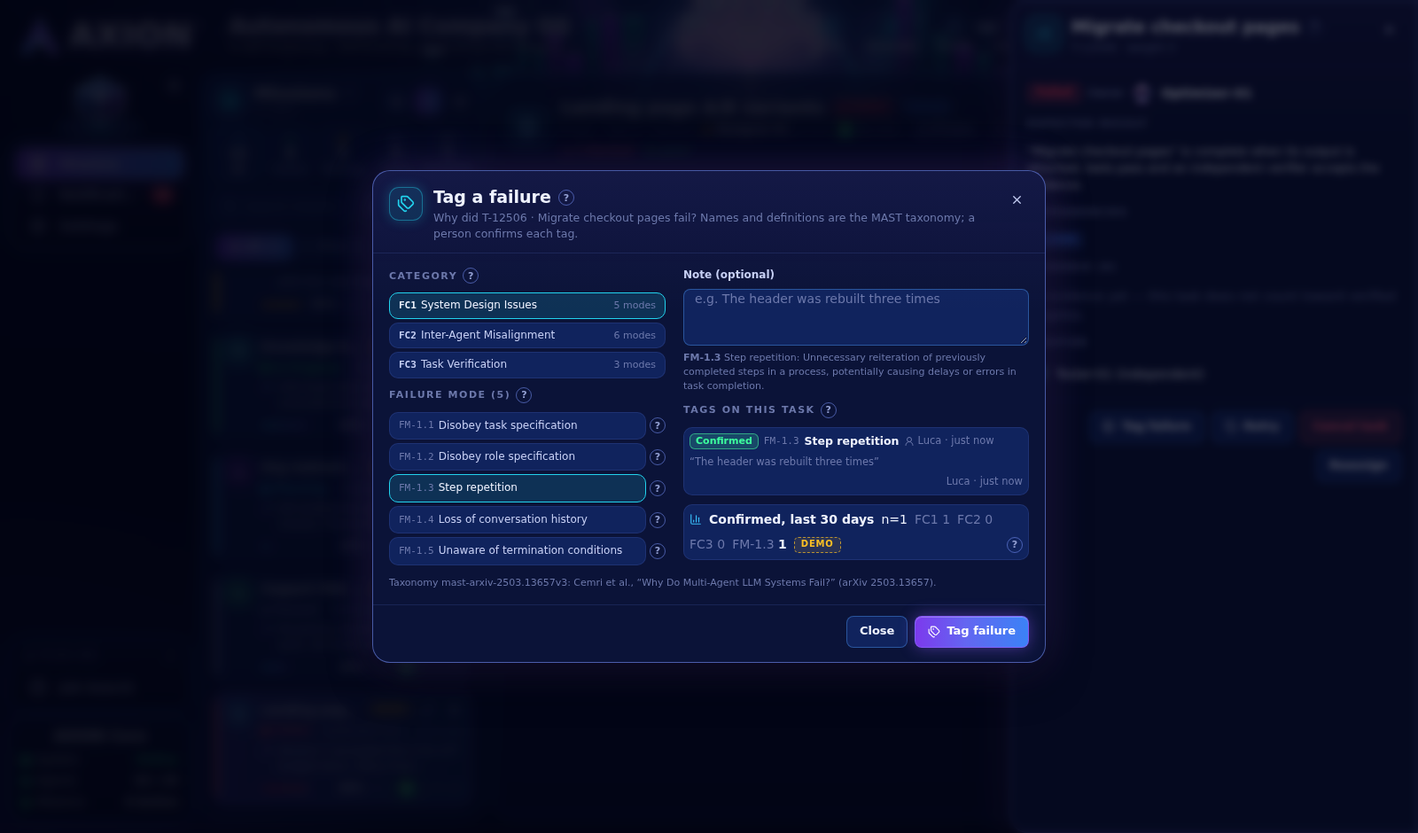
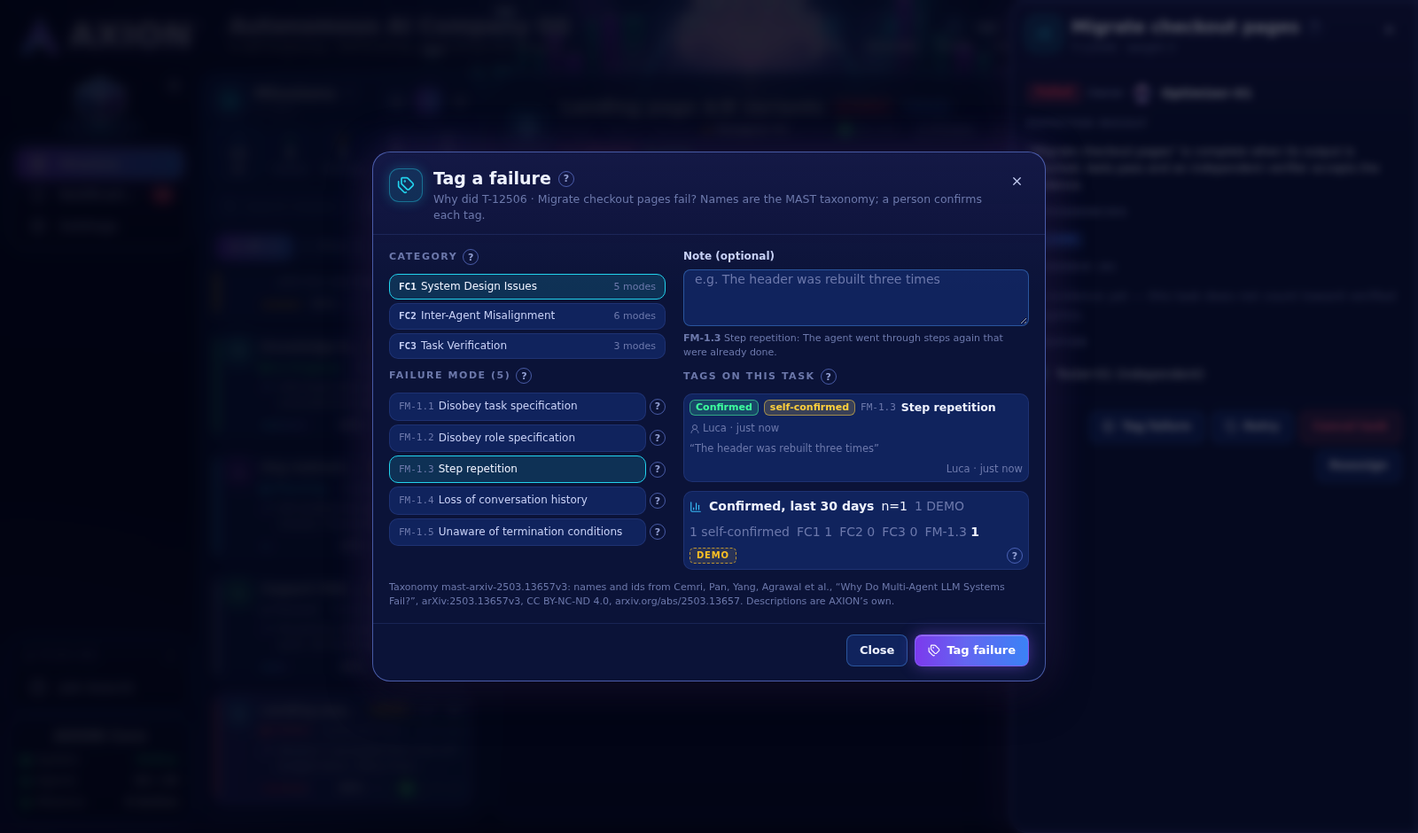
fix(c33 review): licence (own descriptions, attribution), radio-group arrow keys, DEMO split and self-confirmed counts

Changed region(s): [[0.25, 0.1543, 0.75, 0.833]]

diff --git a/web/src/dialogs/defs/failure-tags.tsx b/web/src/dialogs/defs/failure-tags.tsx
@@ -26,8 +26,22 @@ const SAMPLES = [
   { modeId: 'FM-3.2', status: 'proposed' as const, by: 'Tester-01 (sample agent)', note: '' },
 ];
 
+/** WAI-ARIA radio group: one tab stop (the selected item, else the first), arrow keys move the selection and focus. */
+function RadioList<T extends string>({ label, value, items, onSelect, children }: { label: string; value: T | ''; items: T[]; onSelect: (k: T) => void; children: (k: T, p: { tabIndex: number; selected: boolean; ref: (e: HTMLElement | null) => void; onKeyDown: (e: React.KeyboardEvent) => void }, i: number) => React.ReactNode }) {
+  const refs = useRef<Record<string, HTMLElement | null>>({});
+  const stop = items.includes(value as T) ? value : items[0];
+  const onKey = (i: number) => (e: React.KeyboardEvent) => {
+    const d = e.key === 'ArrowDown' || e.key === 'ArrowRight' ? 1 : e.key === 'ArrowUp' || e.key === 'ArrowLeft' ? -1 : e.key === 'Home' ? 'home' : e.key === 'End' ? 'end' : 0;
+    if (!d) return;
+    e.preventDefault(); e.stopPropagation();
+    const n = d === 'home' ? 0 : d === 'end' ? items.length - 1 : (i + d + items.length) % items.length;
+    onSelect(items[n]); refs.current[items[n]]?.focus();
+  };
+  return <div className="col" style={{ gap: 4 }} role="radiogroup" aria-label={label}>{items.map((k, i) => children(k, { tabIndex: k === stop ? 0 : -1, selected: k === value, ref: (e) => { refs.current[k] = e; }, onKeyDown: onKey(i) }, i))}</div>;
+}
+
 /* DL-78: Tag a failure (improvement cycle 33). MAST taxonomy (arXiv 2503.13657v3): pick a category, then a mode; the ? beside each
-   mode quotes the paper's definition. Every tag starts proposed; a person confirms or rejects it once; only confirmed tags are counted. */
+   mode gives AXION's one-sentence description and the source (the paper is CC BY-NC-ND: names and ids only are the paper's). Every tag starts proposed; a person confirms or rejects it once; only confirmed tags are counted. */
 function TagFailure({ close, props }: DialogComponentProps<{ missionId?: string; taskId?: string; subjectKind?: FailureSubjectKind; subjectId?: string; label?: string }>) {
   const api_ = isApi();
   const kind: FailureSubjectKind = props.subjectKind ?? 'task';
@@ -69,7 +83,7 @@ function TagFailure({ close, props }: DialogComponentProps<{ missionId?: string;
   const header = useMemo(() => (props.label ? `${subjectId} · ${props.label}` : `${KIND_LABEL[kind]} ${subjectId}`.trim()), [props.label, kind, subjectId]);
   return (
     <Modal title="Tag a failure" icon={Tags} help="failure.tag" dialogId="DL-78" size="lg" onClose={close}
-      sub={`Why did ${subjectId ? header : 'this task'} fail? Names and definitions are the MAST taxonomy; a person confirms each tag.`}
+      sub={`Why did ${subjectId ? header : 'this task'} fail? Names are the MAST taxonomy; a person confirms each tag.`}
       footer={<><button className="btn" onClick={close}>Close</button>
         <button className="btn primary" disabled={!!err || !!busy} title={err || undefined} onClick={submit} data-tag-submit>{busy === 'tag' ? <Loader2 size={14} className="spin" /> : <Tags size={14} />}Tag failure</button></>}>
       <div className="col" style={{ gap: 12 }}>
@@ -79,26 +93,24 @@ function TagFailure({ close, props }: DialogComponentProps<{ missionId?: string;
         <div className="oa-diff-cols">
           <div className="col" style={{ gap: 10 }} data-mode-picker>
             <div className="row" style={{ gap: 6 }}><div className="section-label" style={{ margin: 0 }}>Category</div><HelpTrigger k="failure.category" /></div>
-            <div className="col" style={{ gap: 4 }} role="radiogroup" aria-label="Failure category">
-              {FAILURE_TAXONOMY.map((x) => (
-                <button key={x.id} type="button" role="radio" aria-checked={cat === x.id} title={x.definition} className={cx('oa-mem', cat === x.id && 'on')} style={{ justifyContent: 'flex-start', padding: '5px 10px', borderRadius: 10 }}
-                  onClick={() => { setCat(x.id); setModeId((m) => (failureModeOf(m)?.category.id === x.id ? m : '')); touch(); }}>
+            <RadioList label="Failure category" value={cat} items={FAILURE_TAXONOMY.map((x) => x.id)} onSelect={(id) => { setCat(id); setModeId((m) => (failureModeOf(m)?.category.id === id ? m : '')); touch(); }}>
+              {(id, rp) => { const x = FAILURE_TAXONOMY.find((y) => y.id === id)!; return (
+                <button key={id} type="button" role="radio" aria-checked={rp.selected} tabIndex={rp.tabIndex} ref={rp.ref} onKeyDown={rp.onKeyDown} title={x.definition} className={cx('oa-mem', rp.selected && 'on')} style={{ justifyContent: 'flex-start', padding: '5px 10px', borderRadius: 10 }}
+                  onClick={() => { setCat(id); setModeId((m) => (failureModeOf(m)?.category.id === id ? m : '')); touch(); }}>
                   <b className="mono" style={{ fontSize: 11 }}>{x.id}</b><span>{x.name}</span><span className="dim tnum" style={{ marginLeft: 'auto', fontSize: 11 }}>{x.modes.length} modes</span>
-                </button>
-              ))}
-            </div>
+                </button>); }}
+            </RadioList>
             <div className="row" style={{ gap: 6 }}><div className="section-label" style={{ margin: 0 }}>Failure mode ({category.modes.length})</div><HelpTrigger k={`failure.cat.${cat}`} /></div>
-            <div className="col" style={{ gap: 4 }} role="radiogroup" aria-label={`Failure modes in ${category.name}`}>
-              {category.modes.map((m, i) => (
-                <motion.div key={m.id} className="row" style={{ gap: 4 }} initial={{ opacity: 0, x: -6 }} animate={{ opacity: 1, x: 0 }} transition={{ delay: i * .03 }}>
-                  <button type="button" role="radio" aria-checked={modeId === m.id} data-mode={m.id} className={cx('oa-mem', modeId === m.id && 'on')} style={{ flex: 1, justifyContent: 'flex-start', padding: '6px 10px', borderRadius: 10 }}
-                    onClick={() => { setModeId(m.id); touch(); }}>
-                    <span className="mono dim" style={{ fontSize: 11 }}>{m.id}</span><span>{m.name}</span>
+            <RadioList label={`Failure modes in ${category.name}`} value={modeId} items={category.modes.map((m) => m.id)} onSelect={(id) => { setModeId(id); touch(); }}>
+              {(id, rp, i) => { const m = category.modes.find((y) => y.id === id)!; return (
+                <motion.div key={id} className="row" style={{ gap: 4 }} initial={{ opacity: 0, x: -6 }} animate={{ opacity: 1, x: 0 }} transition={{ delay: i * .03 }}>
+                  <button type="button" role="radio" aria-checked={rp.selected} tabIndex={rp.tabIndex} ref={rp.ref} onKeyDown={rp.onKeyDown} data-mode={id} className={cx('oa-mem', rp.selected && 'on')} style={{ flex: 1, justifyContent: 'flex-start', padding: '6px 10px', borderRadius: 10 }}
+                    onClick={() => { setModeId(id); touch(); }}>
+                    <span className="mono dim" style={{ fontSize: 11 }}>{id}</span><span>{m.name}</span>
                   </button>
-                  <HelpTrigger k={`failure.mode.${m.id}`} />
-                </motion.div>
-              ))}
-            </div>
+                  <HelpTrigger k={`failure.mode.${id}`} />
+                </motion.div>); }}
+            </RadioList>
           </div>
           <div className="col" style={{ gap: 10 }}>
             <Field label="Note (optional)" htmlFor="ft-note" hint={chosen ? <><b>{chosen.mode.id}</b> {chosen.mode.name}: {chosen.mode.definition}</> : 'Say what you saw, in your own words. The definition of the chosen mode appears here.'}>
@@ -111,7 +123,7 @@ function TagFailure({ close, props }: DialogComponentProps<{ missionId?: string;
                 : tags.length === 0 ? <span className="dim" style={{ fontSize: 12 }}>No tags yet.</span>
                 : tags.map((t) => (
                   <motion.div key={t.id} className="oa-move" layout initial={{ opacity: 0, y: 4 }} animate={{ opacity: 1, y: 0 }} data-tag={t.id} data-status={t.status} data-mode-id={t.modeId}>
-                    <Chip hue={STATUS[t.status].hue} size="sm">{STATUS[t.status].label}</Chip>
+                    <Chip hue={STATUS[t.status].hue} size="sm">{STATUS[t.status].label}</Chip>{t.selfConfirmed && <Chip hue={45} size="sm" title="Confirmed by the person who made the tag">self-confirmed</Chip>}
                     <span className="mono dim" style={{ fontSize: 11 }}>{t.modeId}</span><b style={{ fontSize: 12.5 }}>{t.modeName}</b>
                     <span className="dim row" style={{ gap: 3, fontSize: 11.5 }}>{t.taggedByKind === 'agent' ? <Bot size={12} /> : <UserRound size={12} />}{t.taggedByName} · {since(t.createdAt)}</span>
                     {t.note && <span className="dim" style={{ fontSize: 11.5, flexBasis: '100%' }}>“{t.note}”</span>}
@@ -136,6 +148,8 @@ function TagFailure({ close, props }: DialogComponentProps<{ missionId?: string;
                 : c ? <>
                   <b>Confirmed, last 30 days</b>
                   <span className="tnum" data-n>n={c.n}</span>
+                  <span className="dim tnum" data-n-demo={c.demo} title="Of n, tags on DEMO sample missions">{c.demo} DEMO</span>
+                  <span className="dim tnum" data-n-self={c.selfConfirmed} title="Of n, confirmed by the person who made the tag">{c.selfConfirmed} self-confirmed</span>
                   {c.categories.map((x) => <span key={x.id} className="dim tnum" title={x.name}>{x.id} {x.count ?? '—'}</span>)}
                   {modeId && <span className="tnum"><span className="dim">{modeId}</span> <b data-mode-total>{modeCount ?? '—'}</b></span>}
                   {c.proposed > 0 && <span className="dim">· {c.proposed} proposed, not counted</span>}
@@ -145,7 +159,7 @@ function TagFailure({ close, props }: DialogComponentProps<{ missionId?: string;
             </div>
           </div>
         </div>
-        <span className="dim" style={{ fontSize: 11 }}>Taxonomy {FAILURE_TAXONOMY_VERSION}: Cemri et al., “Why Do Multi-Agent LLM Systems Fail?” (arXiv 2503.13657).</span>
+        <span className="dim" style={{ fontSize: 11 }}>Taxonomy {FAILURE_TAXONOMY_VERSION}: names and ids from Cemri, Pan, Yang, Agrawal et al., “Why Do Multi-Agent LLM Systems Fail?”, arXiv:2503.13657v3, CC BY-NC-ND 4.0, arxiv.org/abs/2503.13657. Descriptions are AXION’s own.</span>
       </div>
     </Modal>
   );

diff --git a/shared/contracts/src/failures.ts b/shared/contracts/src/failures.ts
@@ -1,56 +1,57 @@
 /**
- * Improvement cycle 33: the MAST failure taxonomy, copied from the paper and versioned.
- * Source: Cemri, Pan, Yang, Agrawal et al., "Why Do Multi-Agent LLM Systems Fail?", arXiv:2503.13657v3 (26 Oct 2025),
- * Section 4 (category names) and Appendix A.1-A.3 "MAST Failure Categories: Deep Dive" (mode names and definitions, verbatim,
- * including the paper's own wording and curly apostrophes). The paper is licensed CC BY-NC-ND 4.0: the text is quoted, not changed.
+ * Improvement cycle 33: the MAST failure taxonomy, versioned.
+ * Attribution: the three category names, the 14 failure-mode ids and their short names are taken unchanged from
+ * Cemri, Pan, Yang, Agrawal et al., "Why Do Multi-Agent LLM Systems Fail?", arXiv:2503.13657v3 (26 Oct 2025),
+ * https://arxiv.org/abs/2503.13657 , Section 4 and Appendix A.1-A.3. The paper is licensed CC BY-NC-ND 4.0.
+ * The one-sentence descriptions below are AXION's own plain-words summaries (not the paper's text); read the paper for its definitions.
  * The list is frozen data: a change is a new taxonomy version, never an edit of this one (tags keep the version they were made under).
  */
 export const FAILURE_TAXONOMY_VERSION = 'mast-arxiv-2503.13657v3' as const;
-export const FAILURE_TAXONOMY_SOURCE = 'Cemri et al., "Why Do Multi-Agent LLM Systems Fail?", arXiv:2503.13657v3, Appendix A (CC BY-NC-ND 4.0)' as const;
+export const FAILURE_TAXONOMY_SOURCE = 'Cemri, Pan, Yang, Agrawal et al., "Why Do Multi-Agent LLM Systems Fail?", arXiv:2503.13657v3 (CC BY-NC-ND 4.0), https://arxiv.org/abs/2503.13657' as const;
 
 export interface FailureModeDef { id: string; name: string; definition: string }
 export interface FailureCategoryDef { id: string; name: string; definition: string; appendix: string; modes: readonly FailureModeDef[] }
 
 export const FAILURE_TAXONOMY: readonly FailureCategoryDef[] = Object.freeze([
   Object.freeze({ id: "FC1", name: "System Design Issues", appendix: "A.1",
-    definition: "This category includes failures that arise from deficiencies in the design of the system architecture, poor conversation management, unclear task specifications or violation of constraints, and inadequate definition or adherence to the roles and responsibilities of the agents.",
+    definition: "Problems that start in how the system, its prompts and its roles were set up, rather than in what happened during a run.",
     modes: Object.freeze([
       Object.freeze({ id: "FM-1.1", name: "Disobey task specification",
-        definition: "Failure to adhere to the specified constraints or requirements of a given task, leading to suboptimal or incorrect outcomes." }),
+        definition: "The agent did not follow the requirements or limits that the task set." }),
       Object.freeze({ id: "FM-1.2", name: "Disobey role specification",
-        definition: "Failure to adhere to the defined responsibilities and constraints of an assigned role, potentially leading to an agent behaving like another." }),
+        definition: "The agent stepped outside the duties of its own role, for example doing another agent's job." }),
       Object.freeze({ id: "FM-1.3", name: "Step repetition",
-        definition: "Unnecessary reiteration of previously completed steps in a process, potentially causing delays or errors in task completion." }),
+        definition: "The agent went through steps again that were already done." }),
       Object.freeze({ id: "FM-1.4", name: "Loss of conversation history",
-        definition: "Unexpected context truncation, disregarding recent interaction history and reverting to an antecedent conversational state." }),
+        definition: "The agent lost track of what was said earlier and carried on as if it had not happened." }),
       Object.freeze({ id: "FM-1.5", name: "Unaware of termination conditions",
-        definition: "Lack of recognition or understanding of the criteria that should trigger the termination of the agents’ interaction, potentially leading to unnecessary continuation." }),
+        definition: "The agent did not recognise that the work was finished and kept going." }),
     ]) }),
   Object.freeze({ id: "FC2", name: "Inter-Agent Misalignment", appendix: "A.2",
-    definition: "This category includes failures arising from ineffective communication, poor collaboration, conflicting behaviors among agents, and gradual derailment from the initial task.",
+    definition: "Problems in how agents talk and work together while a task is running, so that needed information or direction is lost.",
     modes: Object.freeze([
       Object.freeze({ id: "FM-2.1", name: "Conversation reset",
-        definition: "Unexpected or unwarranted restarting of a dialogue, potentially losing context and progress made in the interaction." }),
+        definition: "The conversation started over for no good reason, and earlier progress was lost." }),
       Object.freeze({ id: "FM-2.2", name: "Fail to ask for clarification",
-        definition: "Inability to request additional information when faced with unclear or incomplete data, potentially resulting in incorrect actions." }),
+        definition: "The agent guessed instead of asking, although the input was unclear or incomplete." }),
       Object.freeze({ id: "FM-2.3", name: "Task derailment",
-        definition: "Deviation from the intended objective or focus of a given task, potentially resulting in irrelevant or unproductive actions." }),
+        definition: "The work drifted away from the goal of the task into something unrelated." }),
       Object.freeze({ id: "FM-2.4", name: "Information withholding",
-        definition: "Failure to share or communicate important data or insights that an agent possess and could impact decision-making of other agents if shared." }),
+        definition: "An agent kept back information that another agent needed to decide well." }),
       Object.freeze({ id: "FM-2.5", name: "Ignored other agent’s input",
-        definition: "Disregarding or failing to adequately consider input or recommendations provided by other agents in the system, potentially leading to suboptimal decisions or missed opportunities for collaboration." }),
+        definition: "An agent overlooked or brushed aside what another agent had contributed." }),
       Object.freeze({ id: "FM-2.6", name: "Reasoning-action mismatch",
-        definition: "Discrepancy between the logical reasoning process and the actual actions taken by the agent, potentially resulting in unexpected or undesired behaviors." }),
+        definition: "What the agent said it would do and what it actually did did not match." }),
     ]) }),
   Object.freeze({ id: "FC3", name: "Task Verification", appendix: "A.3",
-    definition: "This category includes failures resulting from premature execution termination, as well as insufficient mechanisms to guarantee the accuracy, completeness, and reliability of interactions, decisions, and outcomes.",
+    definition: "Problems in checking the result: work that stops too early, is not checked, or is checked badly.",
     modes: Object.freeze([
       Object.freeze({ id: "FM-3.1", name: "Premature termination",
-        definition: "Ending a dialogue, interaction or task before all necessary information has been exchanged or objectives have been met, potentially resulting in incomplete or incorrect outcomes." }),
+        definition: "The task was ended before the needed information was exchanged or the goal was reached." }),
       Object.freeze({ id: "FM-3.2", name: "No or incomplete verification",
-        definition: "(partial) omission of proper checking or confirmation of task outcomes or system outputs, potentially allowing errors or inconsistencies to propagate undetected." }),
+        definition: "The result was not checked, or only partly checked, before it was accepted." }),
       Object.freeze({ id: "FM-3.3", name: "Incorrect verification",
-        definition: "Failure to adequately validate or cross-check crucial information or decisions during the iterations, potentially leading to errors or vulnerabilities in the system." }),
+        definition: "A check was done, but it was too weak or wrong to catch the problem." }),
     ]) }),
 ]);
 
@@ -67,7 +68,7 @@ export type FailureTagStatus = 'proposed' | 'confirmed' | 'rejected';
 export interface FailureTagDto {
   id: string; subjectKind: FailureSubjectKind; subjectId: string; missionId: string; taxonomyVersion: string;
   modeId: string; modeName: string; categoryId: string; categoryName: string; note: string | null;
-  taggedBy: string; taggedByName: string; taggedByKind: 'user' | 'agent'; status: FailureTagStatus; createdAt: string;
+  taggedBy: string; taggedByName: string; taggedByKind: 'user' | 'agent'; status: FailureTagStatus; selfConfirmed: boolean; createdAt: string;
   decidedBy: string | null; decidedByName: string | null; decidedAt: string | null;
 }
 export interface FailureSubjectInfo { kind: FailureSubjectKind; id: string; missionId: string; demo: boolean; failed: boolean; retried: boolean }
@@ -76,5 +77,5 @@ export interface FailureModeCount { id: string; name: string; count: number | nu
 export interface FailureCategoryCount { id: string; name: string; count: number | null; modes: FailureModeCount[] }
 export interface FailureModesDto {
   window: '7d' | '30d' | '90d'; from: string; to: string; includeDemo: boolean; taxonomyVersion: string; source: string;
-  n: number; proposed: number; categories: FailureCategoryCount[];
+  n: number; /** of n: tags on DEMO missions (0 unless includeDemo) */ demo: number; /** of n: confirmed by the person who tagged them */ selfConfirmed: number; proposed: number; categories: FailureCategoryCount[];
 }

diff --git a/server/test/failures.test.ts b/server/test/failures.test.ts
@@ -1,6 +1,6 @@
 import { describe, it, expect, beforeAll, afterAll } from 'vitest';
 import { makeTestApp, withAdmin, type TestApp, type Browser } from './helpers.ts';
-import { FAILURE_TAXONOMY, FAILURE_TAXONOMY_VERSION, FAILURE_MODE_IDS } from '../src/failures/taxonomy.ts';
+import { FAILURE_TAXONOMY, FAILURE_TAXONOMY_VERSION, FAILURE_TAXONOMY_SOURCE, FAILURE_MODE_IDS } from '../src/failures/taxonomy.ts';
 import { createTag } from '../src/failures/service.ts';
 import { clearDemo } from '../src/seed/demo.ts';
 import { tx } from '../src/db.ts';
@@ -64,7 +64,12 @@ describe('the taxonomy is the paper\'s (arXiv 2503.13657v3, Appendix A)', () => 
       'FM-3.1 Premature termination', 'FM-3.2 No or incomplete verification', 'FM-3.3 Incorrect verification',
     ]);
     expect(FAILURE_MODE_IDS).toHaveLength(14);
-    expect(FAILURE_TAXONOMY.flatMap((c) => c.modes).every((m) => m.definition.length > 40 && m.definition.endsWith('.'))).toBe(true);
+    // licence (CC BY-NC-ND): names and ids are the paper's, the descriptions are AXION's own one-sentence summaries, not its text
+    const defs = [...FAILURE_TAXONOMY.map((c) => c.definition), ...FAILURE_TAXONOMY.flatMap((c) => c.modes.map((m) => m.definition))];
+    expect(defs).toHaveLength(17);
+    expect(defs.every((d) => d.length > 30 && d.length < 140 && d.endsWith('.') && d.split('. ').length === 1)).toBe(true);
+    expect(defs.filter((d) => /potentially|This category includes|leading to suboptimal|Failure to adhere/i.test(d))).toEqual([]);
+    expect(FAILURE_TAXONOMY_SOURCE).toMatch(/arXiv:2503\.13657v3.*CC BY-NC-ND 4\.0.*https:\/\/arxiv\.org\/abs\/2503\.13657/);
   });
   it('is frozen (a change is a new version, never an edit)', () => {
     expect(Object.isFrozen(FAILURE_TAXONOMY)).toBe(true);
@@ -164,6 +169,22 @@ describe('decisions', () => {
     expect((await A.req('POST', '/failure-tags/FT-NOPE/decision', { decision: 'confirm' })).status).toBe(404);
   });
 
+  it('self-confirmation is allowed but recorded: decider = tagger sets self_confirmed; another person, a rejection and an agent tag do not', async () => {
+    const own = (await tag(M, 'task', 'T-D1', 'FM-1.2')).body.tag.id as string;
+    const r = await M.req('POST', `/failure-tags/${own}/decision`, { decision: 'confirm' });
+    expect(r.body.tag).toMatchObject({ status: 'confirmed', selfConfirmed: true, decidedBy: minaId });
+    const other = (await tag(M, 'task', 'T-D1', 'FM-1.5')).body.tag.id as string;
+    expect((await A.req('POST', `/failure-tags/${other}/decision`, { decision: 'confirm' })).body.tag).toMatchObject({ status: 'confirmed', selfConfirmed: false });
+    const rej = (await tag(M, 'task', 'T-D1', 'FM-2.1')).body.tag.id as string;
+    expect((await M.req('POST', `/failure-tags/${rej}/decision`, { decision: 'reject' })).body.tag).toMatchObject({ status: 'rejected', selfConfirmed: false });
+    expect((await rows('select self_confirmed from failure_tags where id=$1', [own]))[0].self_confirmed).toBe(true);
+    // the database refuses a lie about it
+    const p2 = (await tag(M, 'task', 'T-D1', 'FM-2.2')).body.tag.id as string;
+    await expect(q(`update failure_tags set status='confirmed', decided_by=$2, decided_at=now(), self_confirmed=true where id=$1`, [p2, adminId])).rejects.toThrow(/self_confirmed/);
+    await expect(q(`update failure_tags set status='confirmed', decided_by=$2, decided_at=now(), self_confirmed=false where id=$1`, [p2, minaId])).rejects.toThrow(/self_confirmed/);
+    await expect(q(`insert into failure_tags(id, tenant_id, mission_id, subject_kind, subject_id, taxonomy_version, mode_id, tagged_by, tagged_by_kind, self_confirmed) values ('FT-X','t-1','M-C1','task','T-F1','v','FM-1.1','u','user',true)`)).rejects.toThrow();
+  });
+
   it('a rejected tag is final but the same mode can be proposed again', async () => {
     const id = (await tag(A, 'task', 'T-S1', 'FM-2.2')).body.tag.id as string;
     expect((await A.req('POST', `/failure-tags/${id}/decision`, { decision: 'reject' })).body.tag.status).toBe('rejected');
@@ -188,7 +209,7 @@ describe('decisions', () => {
     await expect(q(`update failure_tags set status='confirmed' where id=$1`, [id])).rejects.toThrow(); // no decider recorded
     await expect(q(`delete from failure_tags where id=$1`, [id])).rejects.toThrow(/append-only/);
     await expect(q(`truncate failure_tags`)).rejects.toThrow(/append-only/);
-    await q(`update failure_tags set status='confirmed', decided_by=$2, decided_at=now() where id=$1`, [id, adminId]);
+    await q(`update failure_tags set status='confirmed', decided_by=$2, decided_at=now(), self_confirmed=true where id=$1`, [id, adminId]);
     await expect(q(`update failure_tags set status='rejected', decided_by='x', decided_at=now() where id=$1`, [id])).rejects.toThrow(/never changes/);
   });
 });
@@ -239,6 +260,8 @@ describe('counts on a fixture with known tags', () => {
     await mk(Y, 'T-3', 'FM-3.1');                     // proposed: not counted, reported apart
     const r = (await X.req('GET', '/company/failure-modes?window=30d')).body;
     expect(r.n).toBe(4); expect(r.proposed).toBe(1);
+    // who confirmed: Yan confirmed his own (T-1 FM-1.3), the administrator confirmed three tags made by herself: 4 self-confirmed
+    expect(r.selfConfirmed).toBe(4); expect(r.demo).toBe(0);
     expect(flat(r)).toMatchObject({ 'FM-1.3': 2, 'FM-3.2': 1, 'FM-2.6': 1, 'FM-1.1': 0, 'FM-2.5': 0, 'FM-3.1': 0 });
     expect(r.categories.map((c: any) => [c.id, c.count])).toEqual([['FC1', 2], ['FC2', 1], ['FC3', 1]]);
     expect(r.categories.reduce((s: number, c: any) => s + c.count, 0)).toBe(r.n);
@@ -261,7 +284,7 @@ describe('counts on a fixture with known tags', () => {
     const demo = await mk(X, 'T-4', 'FM-2.1', 'confirm');
     expect(demo).toMatch(/^FT-/);
     const a0 = (await X.req('GET', '/company/failure-modes')).body, a1 = (await X.req('GET', '/company/failure-modes?includeDemo=1')).body;
-    expect(a1.n).toBe(a0.n + 1); expect(a1.includeDemo).toBe(true); expect(flat(a1)['FM-2.1']).toBe(1); expect(flat(a0)['FM-2.1']).toBe(0);
+    expect(a0.demo).toBe(0); expect(a1.demo).toBe(1); expect(a1.n).toBe(a0.n + 1); expect(a1.includeDemo).toBe(true); expect(flat(a1)['FM-2.1']).toBe(1); expect(flat(a0)['FM-2.1']).toBe(0);
     // Yan owns M-P (private) and sees the shared M-Q and M-DM; the administrator's tags on M-P are visible to Yan too (his own mission)
     const y = (await Y.req('GET', '/company/failure-modes?includeDemo=1')).body;
     expect(y.n).toBe(a1.n);

diff --git a/server/src/failures/service.ts b/server/src/failures/service.ts
@@ -52,7 +52,7 @@ export function tagDto(r: any): FailureTagDto {
   return {
     id: r.id, subjectKind: r.subject_kind, subjectId: r.subject_id, missionId: r.mission_id, taxonomyVersion: r.taxonomy_version, modeId: r.mode_id,
     modeName: m?.mode.name ?? r.mode_id, categoryId: m?.category.id ?? '', categoryName: m?.category.name ?? '', note: r.note,
-    taggedBy: r.tagged_by, taggedByName: r.tagged_name ?? r.agent_name ?? r.tagged_by, taggedByKind: r.tagged_by_kind, status: r.status, createdAt: iso(r.created_at)!,
+    taggedBy: r.tagged_by, taggedByName: r.tagged_name ?? r.agent_name ?? r.tagged_by, taggedByKind: r.tagged_by_kind, status: r.status, selfConfirmed: !!r.self_confirmed, createdAt: iso(r.created_at)!,
     decidedBy: r.decided_by, decidedByName: r.decided_by ? (r.decided_name ?? r.decided_by) : null, decidedAt: iso(r.decided_at),
   };
 }
@@ -92,25 +92,26 @@ export async function decideTag(c: Tx, ctx: Viewer & { correlationId?: string },
   if (!f) return refuse(notFound('No such failure tag, or its mission is not shared with you.'));
   if (f.status !== 'proposed') return refuse(new ApiError('FAILURE_TAG_DECIDED', 409, `This tag was already ${f.status}. A decision is final; tag again to record another view.`));
   const status = decision === 'confirm' ? 'confirmed' : 'rejected';
-  await c.query(`update failure_tags set status=$2, decided_by=$3, decided_at=now() where id=$1`, [id, status, ctx.user.id]);
-  await audit(c, { tenantId: ctx.tenantId, actor: ctx.user.id, action: A, subject: id, result: 'ok', correlationId: ctx.correlationId ?? '', detail: { decision: status, modeId: f.mode_id, subjectKind: f.subject_kind, subjectId: f.subject_id } });
+  const self = status === 'confirmed' && f.tagged_by_kind === 'user' && f.tagged_by === ctx.user.id;
+  await c.query(`update failure_tags set status=$2, decided_by=$3, decided_at=now(), self_confirmed=$4 where id=$1`, [id, status, ctx.user.id, self]);
+  await audit(c, { tenantId: ctx.tenantId, actor: ctx.user.id, action: A, subject: id, result: 'ok', correlationId: ctx.correlationId ?? '', detail: { decision: status, selfConfirmed: self, modeId: f.mode_id, subjectKind: f.subject_kind, subjectId: f.subject_id } });
   await emit(c, { tenantId: ctx.tenantId, actor: ctx.user.id, correlationId: ctx.correlationId, type: 'failure.decided', subject: id, subjectKind: 'failure_tag', missionId: f.mission_id,
-    payload: { tagId: id, subjectKind: f.subject_kind, subjectId: f.subject_id, modeId: f.mode_id, status } });
+    payload: { tagId: id, subjectKind: f.subject_kind, subjectId: f.subject_id, modeId: f.mode_id, status, selfConfirmed: self } });
   return { tag: (await tagById(c, ctx.tenantId, id))! };
 }
 
 /** Confirmed tags per mode and category over a window, visible missions only (DEMO with includeDemo). The window is placed by the tag's creation time. n = confirmed tags in the window; below 1 every count is null (never 0). */
 export async function failureModeCounts(c: Q, ctx: Viewer, w: { window: '7d' | '30d' | '90d'; from: Date; to: Date }, includeDemo: boolean): Promise<FailureModesDto> {
-  const rows = (await c.query(`select f.mode_id, f.status, count(*)::int as n from failure_tags f join missions m on m.id=f.mission_id
+  const rows = (await c.query(`select f.mode_id, f.status, m.demo, f.self_confirmed, count(*)::int as n from failure_tags f join missions m on m.id=f.mission_id
       where f.tenant_id=$1 and m.tenant_id=$1 and m.deleted_at is null and ${VISIBLE_SQL('$2', '$3')} and ($4::boolean or not m.demo)
-        and f.taxonomy_version=$5 and f.status in ('confirmed','proposed') and f.created_at > $6 and f.created_at <= $7 group by 1, 2`,
+        and f.taxonomy_version=$5 and f.status in ('confirmed','proposed') and f.created_at > $6 and f.created_at <= $7 group by 1, 2, 3, 4`,
     [ctx.tenantId, ctx.user.role === 'admin', ctx.user.id, includeDemo, FAILURE_TAXONOMY_VERSION, w.from, w.to])).rows;
   const by = new Map<string, number>();
-  let n = 0, proposed = 0;
-  for (const r of rows) { if (r.status === 'confirmed') { by.set(r.mode_id, r.n); n += r.n; } else proposed += r.n; }
+  let n = 0, proposed = 0, demo = 0, selfConfirmed = 0;
+  for (const r of rows) { if (r.status === 'confirmed') { by.set(r.mode_id, (by.get(r.mode_id) ?? 0) + r.n); n += r.n; if (r.demo) demo += r.n; if (r.self_confirmed) selfConfirmed += r.n; } else proposed += r.n; }
   const some = n > 0;
   return {
-    window: w.window, from: w.from.toISOString(), to: w.to.toISOString(), includeDemo, taxonomyVersion: FAILURE_TAXONOMY_VERSION, source: FAILURE_TAXONOMY_SOURCE, n, proposed,
+    window: w.window, from: w.from.toISOString(), to: w.to.toISOString(), includeDemo, taxonomyVersion: FAILURE_TAXONOMY_VERSION, source: FAILURE_TAXONOMY_SOURCE, n, demo, selfConfirmed, proposed,
     categories: FAILURE_TAXONOMY.map((cat) => {
       const modes = cat.modes.map((m) => ({ id: m.id, name: m.name, count: some ? (by.get(m.id) ?? 0) : null }));
       return { id: cat.id, name: cat.name, count: some ? modes.reduce((s, m) => s + (m.count ?? 0), 0) : null, modes };

diff --git a/web/src/help/pages/c33-failure-tags.ts b/web/src/help/pages/c33-failure-tags.ts
@@ -2,19 +2,19 @@ import { FAILURE_TAXONOMY, FAILURE_TAXONOMY_VERSION, FAILURE_TAXONOMY_SOURCE } f
 import type { HelpEntry } from '../registry';
 
 const h = (title: string, what: string, why?: string, how?: string, example?: string, permission?: string): HelpEntry => ({ title, what, why, how, example, permission });
-const SRC = `Taxonomy ${FAILURE_TAXONOMY_VERSION}: ${FAILURE_TAXONOMY_SOURCE}. The names and definitions are quoted from the paper, unchanged.`;
+const SRC = `Taxonomy ${FAILURE_TAXONOMY_VERSION}. Category names, mode ids and mode names are from ${FAILURE_TAXONOMY_SOURCE}. The one-sentence descriptions are AXION's own plain-words summaries; the paper has the full definitions.`;
 
 /** Improvement cycle 33: failure-mode tags (MAST). One entry per category and per mode, generated from the same frozen list the server uses. */
 const entries: Record<string, HelpEntry> = {
   'failure.tag': h('Failure tags', 'A tag says why a task, an attempt, a message or a mission failed, using one of 14 failure modes from the MAST taxonomy (three categories). Today a failed task says nothing about why; a shared vocabulary lets failures be counted.',
     'Without common words the company cannot learn from its failures. The labels are judgments, so they are checked: every tag starts as proposed.',
-    'Pick a category, then a mode, add a note if you like, and tag. A person then confirms or rejects the tag, once. Only confirmed tags are counted, with their sample size n and the window.',
+    'Pick a category, then a mode, add a note if you like, and tag. A person then confirms or rejects the tag, once. Only confirmed tags are counted, with their sample size n, how many of n are DEMO, how many were confirmed by the person who tagged them, and the window.',
     'Task T-12501 failed: tag it "Step repetition" (FM-1.3) and confirm. The count for FM-1.3 becomes 1, n=1.',
     'Everyone who can see the mission can tag and decide. Agents will be able to propose tags later; those stay proposed until a person confirms them.'),
   'failure.category': h('Failure category', 'MAST groups its 14 failure modes into three categories: System Design Issues, Inter-Agent Misalignment and Task Verification. Choose the category first; it narrows the list of modes.', undefined, SRC),
-  'failure.mode': h('Failure mode', 'One of the 14 named ways a multi-agent system fails. Select a mode to tag it; hover or open the ? beside a mode for the paper\'s definition.', 'A mode is a label for a failure that was seen, not a verdict on who is to blame.', SRC),
+  'failure.mode': h('Failure mode', 'One of the 14 named ways a multi-agent system fails. Select a mode to tag it; open the ? beside a mode for a one-sentence description and the source.', 'A mode is a label for a failure that was seen, not a verdict on who is to blame.', SRC),
   'failure.status': h('Proposed, confirmed, rejected', 'Proposed: tagged but not yet checked by a person. Confirmed: a person agreed; it is counted. Rejected: a person disagreed; it is kept in the history and not counted.', 'The research behind MAST notes that these labels are subjective. A decision is made once and never changes; tag again to record another view.', undefined, undefined, 'Any person who can see the mission can decide.'),
-  'failure.counts': h('Failure counts', 'Confirmed tags per failure mode and category in the last 7, 30 or 90 days, over the missions you can see. n is the number of confirmed tags. When n is 0 the counts show "—", not 0: nothing has been counted yet.', 'Counts need a sample. A number with no tags behind it would be invented.', 'A tag is placed in the window by the time it was tagged. Proposed tags are shown beside n, not in it. DEMO missions count only for DEMO subjects and are labelled.'),
+  'failure.counts': h('Failure counts', 'Confirmed tags per failure mode and category in the last 7, 30 or 90 days, over the missions you can see. n is the number of confirmed tags. When n is 0 the counts show "—", not 0: nothing has been counted yet.', 'Counts need a sample. A number with no tags behind it would be invented.', 'A tag is placed in the window by the time it was tagged. Proposed tags are shown beside n, not in it. DEMO missions count only for DEMO subjects and are labelled, with the number of DEMO tags inside n. A tag confirmed by the same person who made it is counted and shown as self-confirmed.'),
 };
 for (const c of FAILURE_TAXONOMY) {
   entries[`failure.cat.${c.id}`] = h(`${c.id}: ${c.name}`, c.definition, undefined, `${c.modes.length} failure modes: ${c.modes.map((m) => `${m.id} ${m.name}`).join('; ')}.`, undefined, SRC);

diff --git a/web/docs/improve/cycles/c33-report.md b/web/docs/improve/cycles/c33-report.md
@@ -13,29 +13,13 @@ Every tag, human or agent, starts `proposed`. A person confirms or rejects it on
 The window places a tag by its creation time (not decision time).
 
 ## Taxonomy source (fetched, not from memory)
-Source: Cemri, Pan, Yang, Agrawal et al., "Why Do Multi-Agent LLM Systems Fail?", **arXiv:2503.13657v3** (26 Oct 2025), fetched from https://arxiv.org/html/2503.13657. Category names: Section 4 ("FC1. System Design Issues", "FC2. Inter-Agent Misalignment", "FC3. Task Verification"). Mode names and definitions: **Appendix A.1-A.3 "MAST Failure Categories: Deep Dive"**, copied verbatim from the HTML text (the paper's own wording kept, e.g. the curly apostrophe in FM-2.5, "(partial) omission" in FM-3.2, "an agent possess" in FM-2.4). The page says 14 modes; the counts 5 / 6 / 3 match "We identify five/six/three failure modes under this category".
+Source: Cemri, Pan, Yang, Agrawal et al., "Why Do Multi-Agent LLM Systems Fail?", **arXiv:2503.13657v3** (26 Oct 2025), https://arxiv.org/abs/2503.13657 (fetched from the HTML version). Licence CC BY-NC-ND 4.0. Category names: Section 4. Mode ids and names: Appendix A.1-A.3 "MAST Failure Categories: Deep Dive" (copied unchanged, including the curly apostrophe in FM-2.5). The Appendix says "five / six / three failure modes" per category (14 in all). Since the fix round (below) only the names and ids are the paper's; the descriptions are AXION's own.
 
-| ID | Name (Appendix A) | Quoted definition start |
-|---|---|---|
-| FC1 | System Design Issues (A.1) | "This category includes failures that arise from deficiencies in the design of the system architecture, ..." |
-| FM-1.1 | Disobey task specification | "Failure to adhere to the specified constraints or requirements of a given task, ..." |
-| FM-1.2 | Disobey role specification | "Failure to adhere to the defined responsibilities and constraints of an assigned role, ..." |
-| FM-1.3 | Step repetition | "Unnecessary reiteration of previously completed steps in a process, ..." |
-| FM-1.4 | Loss of conversation history | "Unexpected context truncation, disregarding recent interaction history ..." |
-| FM-1.5 | Unaware of termination conditions | "Lack of recognition or understanding of the criteria that should trigger the termination ..." |
-| FC2 | Inter-Agent Misalignment (A.2) | "This category includes failures arising from ineffective communication, poor collaboration, ..." |
-| FM-2.1 | Conversation reset | "Unexpected or unwarranted restarting of a dialogue, ..." |
-| FM-2.2 | Fail to ask for clarification | "Inability to request additional information when faced with unclear or incomplete data, ..." |
-| FM-2.3 | Task derailment | "Deviation from the intended objective or focus of a given task, ..." |
-| FM-2.4 | Information withholding | "Failure to share or communicate important data or insights that an agent possess ..." |
-| FM-2.5 | Ignored other agent’s input | "Disregarding or failing to adequately consider input or recommendations provided by other agents ..." |
-| FM-2.6 | Reasoning-action mismatch | "Discrepancy between the logical reasoning process and the actual actions taken by the agent, ..." |
-| FC3 | Task Verification (A.3) | "This category includes failures resulting from premature execution termination, ..." |
-| FM-3.1 | Premature termination | "Ending a dialogue, interaction or task before all necessary information has been exchanged ..." |
-| FM-3.2 | No or incomplete verification | "(partial) omission of proper checking or confirmation of task outcomes or system outputs, ..." |
-| FM-3.3 | Incorrect verification | "Failure to adequately validate or cross-check crucial information or decisions during the iterations, ..." |
-
-The full definitions are in the code (`shared/contracts/src/failures.ts`) and pinned by `server/test/failures.test.ts` (names, ids, 5/6/3, frozen). Definitions are quoted in the `?` help and the attribution line; the paper is CC BY-NC-ND 4.0 (see concerns).
+| Category | Modes (id and name, as in Appendix A) |
+|---|---|
+| FC1 System Design Issues | FM-1.1 Disobey task specification; FM-1.2 Disobey role specification; FM-1.3 Step repetition; FM-1.4 Loss of conversation history; FM-1.5 Unaware of termination conditions |
+| FC2 Inter-Agent Misalignment | FM-2.1 Conversation reset; FM-2.2 Fail to ask for clarification; FM-2.3 Task derailment; FM-2.4 Information withholding; FM-2.5 Ignored other agent’s input; FM-2.6 Reasoning-action mismatch |
+| FC3 Task Verification | FM-3.1 Premature termination; FM-3.2 No or incomplete verification; FM-3.3 Incorrect verification |
 
 ## RED / GREEN
 - Baseline on the untouched branch: server vitest 37 files, **583 passed**.
@@ -76,3 +60,11 @@ server: `migrations/0028_failure_tags.{up,down}.sql`, `src/failures/{taxonomy,se
 5. **Self-confirmation** is allowed (see lifecycle). If the owner wants a different person to confirm, it is one condition in `decideTag`.
 6. **Commit trailer.** The task and LANES.md say "Claude Opus 5.5"; the session's system reminder said "Claude Sonnet 5.5". I followed LANES.md.
 7. The e2e a11y api probe lines ("Could not load the tasks") are the check's own failure probes, not violations.
+
+## Fix round (controller review c33-review.md: CLEAR, four minors, plus the licence ruling)
+1. **Licence.** `shared/contracts/src/failures.ts` keeps the 3 category names, 14 ids and short names exactly, with attribution (authors, title, arXiv id and version, CC BY-NC-ND 4.0, link) in the file header and in `FAILURE_TAXONOMY_SOURCE`. All 17 verbatim definition sentences are replaced by AXION's own one-sentence descriptions (no copied phrasing). The help entries and the dialog footer carry the attribution and link and say the descriptions are AXION's. The taxonomy test now pins names/ids/5-6-3/frozen, that each description is one short sentence, that none contains paper phrases, and that the source string has arXiv id, version, licence and link. The earlier verbatim table is removed from this report; the "Quoted definition" column and the concern 1 text above are superseded.
+2. **Radio groups.** New `RadioList` in the dialog: roving tabindex (one tab stop per group: the selected item, else the first), ArrowUp/Down/Left/Right (wrapping), Home and End move selection and focus. `api-c33` checks: one tab stop per group, ArrowDown moves mode selection and focus, wrap-around, Home, category ArrowDown/ArrowUp (modes list follows; a mode of another category is dropped).
+3. **DEMO split.** `GET /company/failure-modes` returns `demo` (how many of n are on DEMO missions; 0 unless includeDemo=1); the dialog shows "1 DEMO" next to n.
+4. **Self-confirmation.** Still allowed. Migration 0028 (unmerged, edited in place) adds `self_confirmed boolean`; the trigger requires it to equal "confirmed by the user who tagged it", so the database refuses a wrong value (also on insert). The decision stores it, audit and `failure.decided` payload carry it, the tag DTO returns `selfConfirmed`, the counts return `selfConfirmed` (of n) and the dialog shows a "self-confirmed" chip and "1 self-confirmed" next to n. New test covers self, other person, reject, agent path and the DB refusals.
+
+Counts after the fix round: server `tsc` clean; vitest **38 files, 601 passed** (600 + 1 new test; failures.test.ts 18); web `tsc` clean; `api-flows` 23/23; `api-stage6` 94/94; `api-c33` **41/41** (34 + 7 new: attribution in help, one tab stop per group, 3 arrow-key checks, 2 category-arrow checks merged into 2, DEMO and self-confirmed split); 0 FAIL, no page errors. a11y (api mode) re-run: 40 views, 57 dialogs, 0 violations. Screenshots regenerated.
